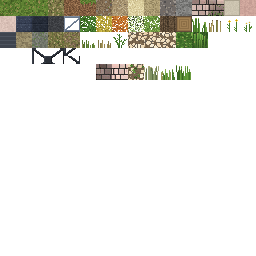
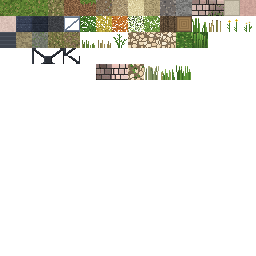
V3.1 lot b : galets à joints plus doux (taches de 2 px) contre le scintillement
Claude-Session: https://claude.ai/code/session_0142cakWnYwG88KjocZSMvBt

Changed region(s): [[0.5, 0.125, 0.6875, 0.1875], [0.5, 0.25, 0.5625, 0.3125]]

diff --git a/pipeline/mc/textures.py b/pipeline/mc/textures.py
@@ -248,7 +248,7 @@ put("weeds",39,weeds(40))
 # galets calcaire (grève) : gros cailloux (3-5 px) blancs, contrastés, sur joints brun-gris sombres ; tuile raccordable
 def pebbles(seed,n_st=14):
     rng=np.random.default_rng(seed)
-    img=pal_img(rng,[C(122,102,78),C(112,94,72),C(130,110,84),C(106,88,68)],[5,4,3,2],blob=1).astype(int)   # joints brun chaud
+    img=pal_img(rng,[C(130,110,84),C(124,104,80),C(136,116,88),C(118,100,76)],[5,4,3,2],blob=2).astype(int)   # joints brun chaud (taches de 2 px : moins de scintillement)
     PB=[C(244,230,202),C(238,220,188),C(246,236,212),C(236,212,176),C(240,222,190),C(230,206,170)]   # crème et ocre clair
     yy,xx=np.mgrid[0:T,0:T]; placed=np.zeros((T,T),bool); n=0
     for _ in range(300):
@@ -260,11 +260,11 @@ def pebbles(seed,n_st=14):
         n+=1
         ring=np.zeros((T,T),bool)                                 # liseré de joint autour du galet (sépare les galets voisins)
         for sy,sx in ((1,0),(-1,0),(0,1),(0,-1)): ring|=np.roll(m,(sy,sx),(0,1))
-        ring&=~m; img[ring&placed]=np.array(C(104,96,86))+rng.integers(-6,7,(int((ring&placed).sum()),1)); placed|=m
+        ring&=~m; img[ring&placed]=np.array(C(124,104,80)); placed|=m
         c=np.array(PB[rng.integers(0,len(PB))])
-        img[m]=c+rng.integers(-5,6,(m.sum(),1))
+        img[m]=c+rng.integers(-2,3,(m.sum(),1))
         img[m&((dy/ry+dx/rx)<-0.9)]+=6                           # reflet haut-gauche
-        img[m&((dy/ry+dx/rx)>1.05)]-=40                          # ombre bas-droite marquée
+        img[m&((dy/ry+dx/rx)>1.05)]-=22                          # ombre bas-droite
     for _ in range(8):                                          # gravillons dans les joints
         y,x=rng.integers(0,T,2)
         if not placed[y,x]: img[y,x]=C(176,168,152)
